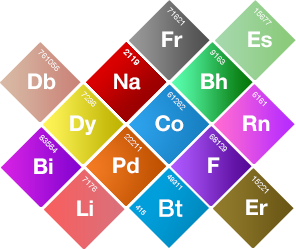
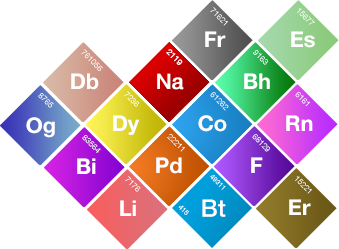
Added Oganesson

diff --git a/README.md b/README.md
@@ -3,7 +3,7 @@
 > An overview of all the iOS (Swift) related repositories within our 'own' periodic system
 
 
-![Period system](Assets/system.png?010)
+![Period system](Assets/system.png?011)
 
 
 **🤷♂ Why on earth do you use the periodic system?**   
@@ -98,3 +98,9 @@ Applying the robot pattern to your UI XCTests
 A small helper class for localization
 
 🔗 **[e-sites/Dupnium](https://github.com/e-sites/Dupnium)**
+
+
+## `Og` → Oganesson
+A small swift helper class for using an ObjectPool
+
+🔗 **[e-sites/Oganesson](https://github.com/e-sites/Oganesson)**
